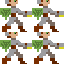
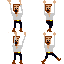
redid physics with nape, added plinko board and new graphics

diff --git a/khafile.js b/khafile.js
@@ -4,6 +4,7 @@ project.addSources('Sources');
 project.addLibrary('Echoes');
 project.addLibrary('hxbit');
 project.addLibrary('slide');
+project.addLibrary('nape-haxe4');
 // hxmath support
 project.addLibrary('hxmath');
 project.addDefine('ECHO_USE_HXMATH');
